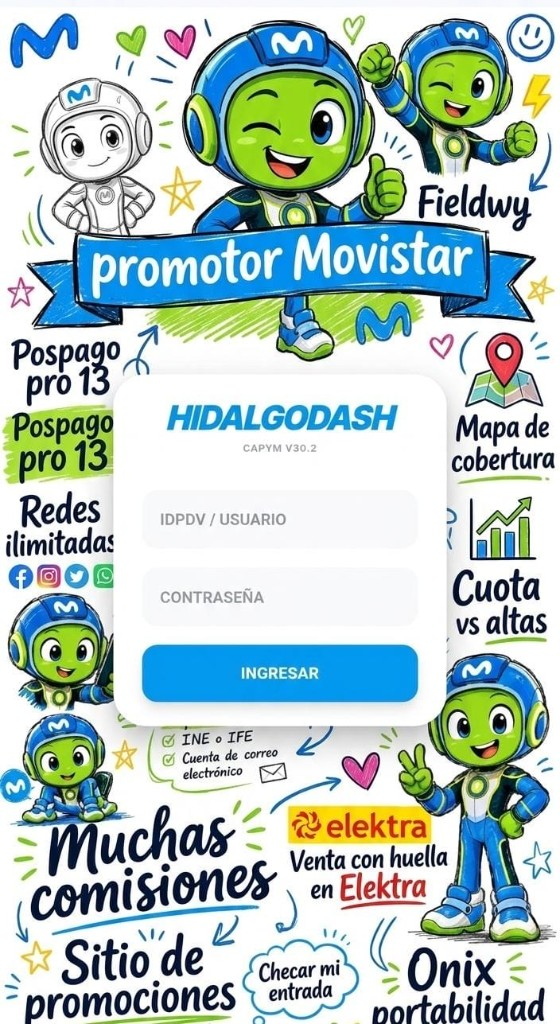
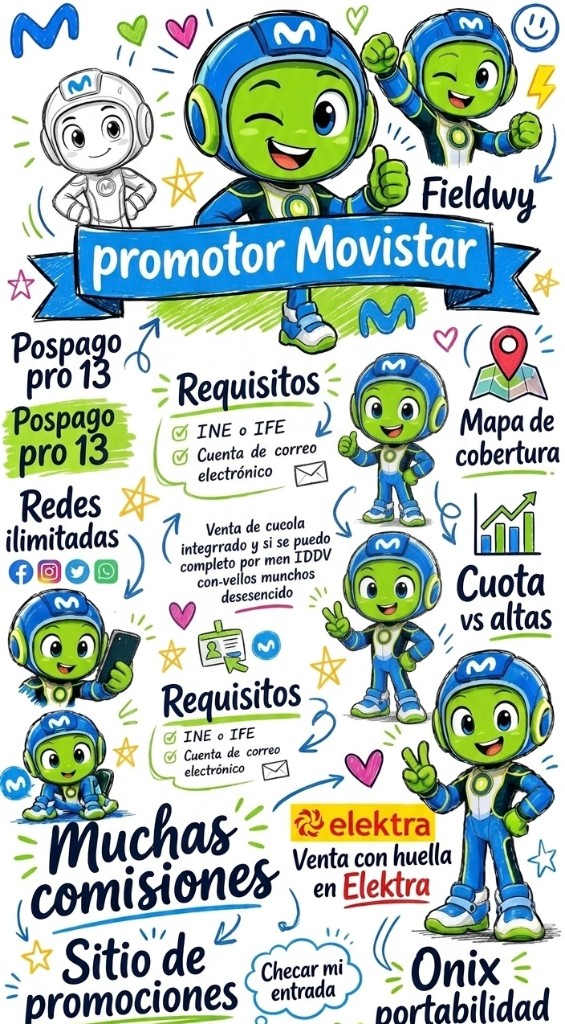
Fix Seg Diario parser dropping the first store and refresh login screen.
Detect the IDPV header row dynamically so all 106 stores (43 Hidalgo) load on CARGAR DIARIO, and update login background styling.

diff --git a/index.html b/index.html
@@ -74,22 +74,23 @@
         .login-gradient { background: linear-gradient(180deg, #0B2739 0%, #019DF4 100%); }
         .login-screen {
             min-height: 100vh;
-            background: url('login-bg.png') center center / cover no-repeat fixed;
+            min-height: 100dvh;
+            background: url('login-bg.png') center top / cover no-repeat;
             position: relative;
         }
         .login-screen::before {
             content: '';
             position: absolute;
             inset: 0;
-            background: rgba(11, 39, 57, 0.35);
+            background: linear-gradient(180deg, rgba(255, 255, 255, 0.05) 0%, rgba(11, 39, 57, 0.2) 40%, rgba(11, 39, 57, 0.5) 100%);
             pointer-events: none;
         }
         .login-card {
-            background: rgba(255, 255, 255, 0.94);
-            backdrop-filter: blur(12px);
-            -webkit-backdrop-filter: blur(12px);
-            border: 1px solid rgba(255, 255, 255, 0.6);
-            box-shadow: 0 25px 50px -12px rgba(0, 0, 0, 0.35);
+            background: rgba(255, 255, 255, 0.97);
+            backdrop-filter: blur(14px);
+            -webkit-backdrop-filter: blur(14px);
+            border: 1px solid rgba(255, 255, 255, 0.75);
+            box-shadow: 0 25px 50px -12px rgba(0, 0, 0, 0.4);
         }
         .metric-alcance {
             font-size: 2.75rem;
@@ -602,11 +603,27 @@
             return raw ? raw.toUpperCase() : "SUBURBIA";
         };
 
+        const cleanIdPdv = (val) => String(val ?? '').trim().replace(/^0+/, '').split('.')[0];
+
+        const isValidIdPdv = (val) => {
+            if (val === null || val === undefined || val === '') return false;
+            const id = cleanIdPdv(val);
+            return /^\d{5,}$/.test(id);
+        };
+
+        const findSegDiarioDataStart = (rows) => {
+            for (let i = 0; i < Math.min(rows.length, 20); i++) {
+                const h = String(rows[i]?.H ?? '').toUpperCase().trim();
+                if (h === 'IDPV' || h.includes('ID PDV')) return i + 1;
+            }
+            return 5;
+        };
+
         const parseSegDiarioRow = (row) => {
-            const idRaw = String(row["H"] || "").trim();
-            if (!idRaw) return null;
+            const id = cleanIdPdv(row["H"]);
+            if (!isValidIdPdv(id)) return null;
             return {
-                id: idRaw.replace(/^0+/, ''),
+                id,
                 tienda: String(row["I"] || "").trim(),
                 plaza: String(row["J"] || "").trim().toUpperCase(),
                 lider: String(row["A"] || "").trim(),
@@ -641,7 +658,7 @@
                 }
             }
             const jData = XLSX.utils.sheet_to_json(wsSegDiario, { header: "A", defval: "" });
-            const list = jData.slice(5)
+            const list = jData.slice(findSegDiarioDataStart(jData))
                 .map(parseSegDiarioRow)
                 .filter(Boolean);
             return { list, diaAct };
@@ -976,14 +993,6 @@
                 return raw ? JSON.parse(raw) : {};
             } catch { return {}; }
         };
-
-        const isValidIdPdv = (val) => {
-            if (val === null || val === undefined || val === '') return false;
-            const id = cleanIdPdv(val);
-            return /^\d{5,}$/.test(id);
-        };
-
-        const cleanIdPdv = (val) => String(val ?? '').trim().replace(/^0+/, '').split('.')[0];
 
         const storeIdsMatch = (a, b) => cleanIdPdv(a) === cleanIdPdv(b);
 
